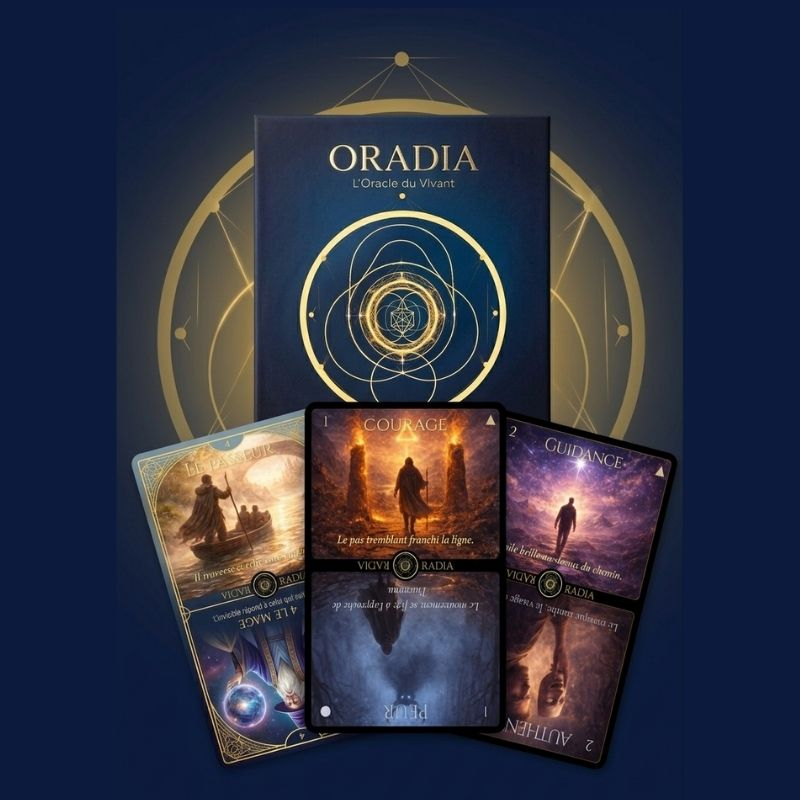
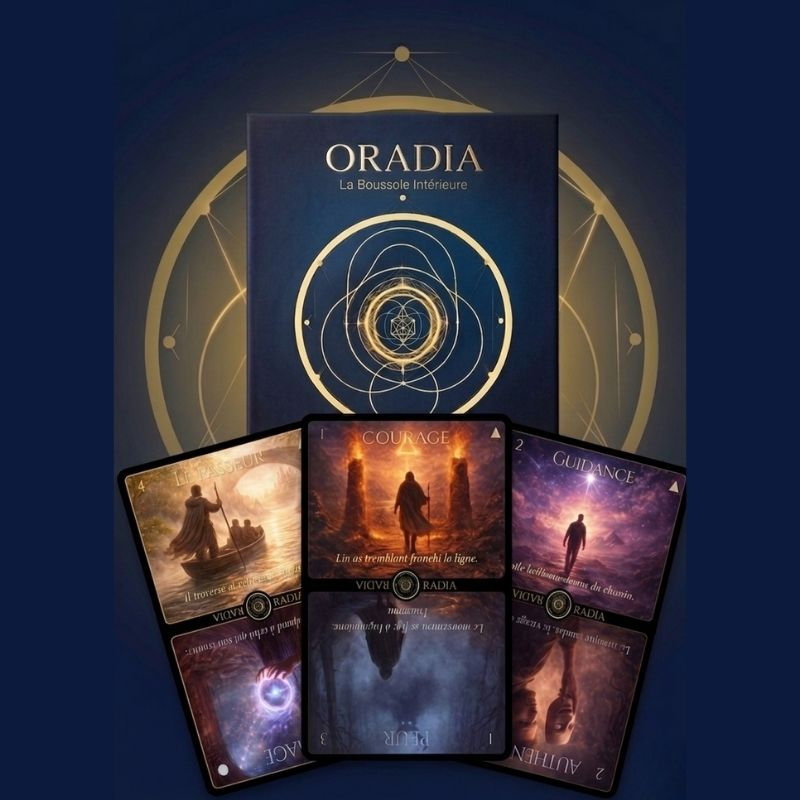
maj

Changed region(s): [[0.125, 0.0625, 0.875, 1.0]]

diff --git a/precommande-oracle.html b/precommande-oracle.html
@@ -1087,7 +1087,7 @@
                                 <span class="text-6xl font-bold text-gold">48</span>
                                 <span class="text-3xl text-gold">€</span>
                             </div>
-                            <p class="text-center text-gold/80 text-sm mb-4 font-medium">1h de guidance offerte (valeur réelle 60€)</p>
+                            <p class="text-center text-gold/80 text-sm mb-4 font-medium">1h de guidance offerte (valeur réelle 30€)</p>
                             <p class="text-light-gold/70 text-sm mb-5">Nombre de places limité</p>
                             <ul class="space-y-3 text-left">
                                 <li class="flex items-start">